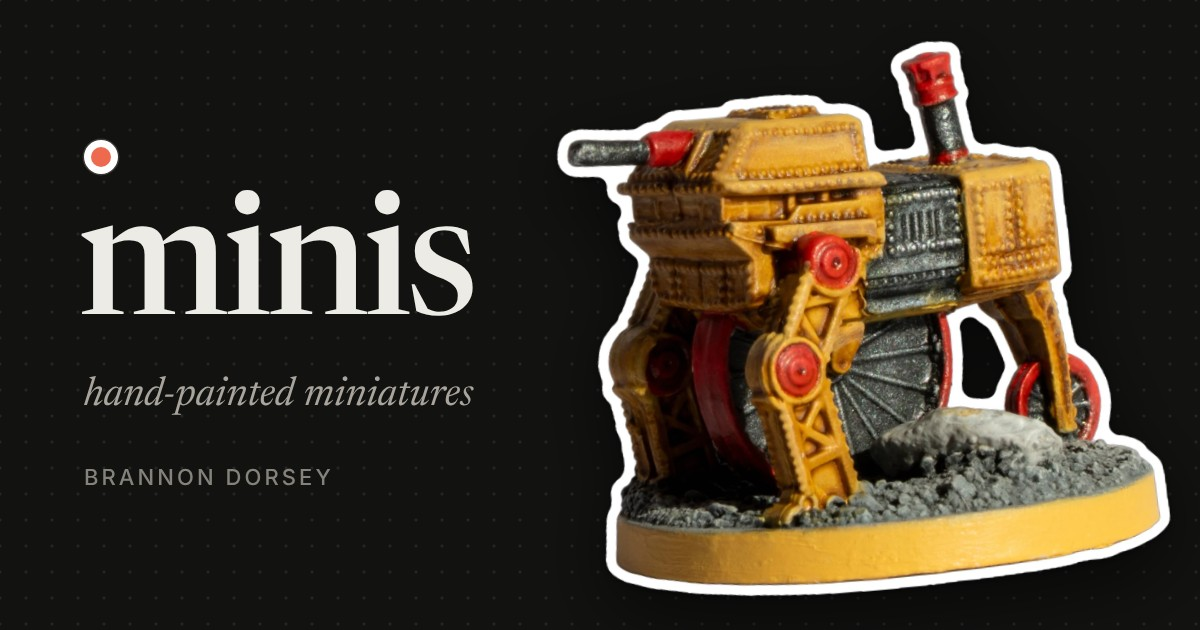
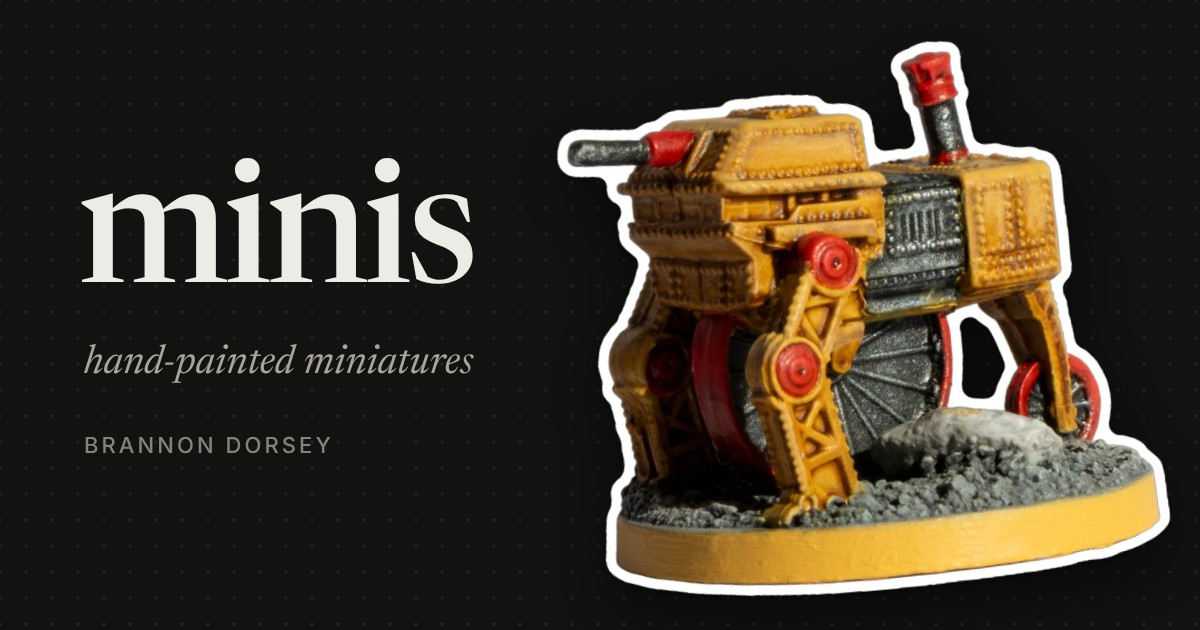
Social card: drop the red dot accent
Claude-Session: https://claude.ai/code/session_01GD7tWYNLozPqViwuVMv8fA

diff --git a/scripts/social/card.html b/scripts/social/card.html
@@ -13,8 +13,6 @@
     font-family: "Newsreader", Georgia, serif; color: #1c1b19;
   }
   .text { position: absolute; left: 84px; top: 0; bottom: 0; display: flex; flex-direction: column; justify-content: center; }
-  .dot { width: 34px; height: 34px; border-radius: 50%; background: #fff; box-shadow: 0 0 0 1.5px #d9d6cf; display: grid; place-items: center; margin-bottom: 30px; }
-  .dot::after { content: ""; width: 20px; height: 20px; border-radius: 50%; background: #c8371f; }
   h1 { font-size: 168px; font-weight: 500; line-height: .85; letter-spacing: -0.035em; margin: 0 0 26px -6px; }
   p { font-size: 40px; font-style: italic; font-weight: 400; color: #5b5850; margin: 0; line-height: 1.2; }
   .by { margin-top: 44px; font: 500 22px ui-sans-serif, system-ui, "Helvetica Neue", sans-serif; letter-spacing: .14em; text-transform: uppercase; color: #8f8b83; }
@@ -23,8 +21,6 @@
   .dark .card { background-color: #121211; background-image: radial-gradient(rgba(236,235,230,0.09) 1.3px, transparent 1.8px); color: #ecebe6; }
   .dark p { color: #a9a59c; }
   .dark .by { color: #85827b; }
-  .dark .dot { box-shadow: 0 0 0 1.5px #3a3833; }
-  .dark .dot::after { background: #ee6a4f; }
   .dark .mech { filter: drop-shadow(0 2px 3px rgba(0,0,0,.5)) drop-shadow(0 24px 36px rgba(0,0,0,.55)); }
 </style>
 <script>if (location.hash === '#dark') document.documentElement.className = 'dark';</script>
@@ -32,7 +28,6 @@
 <body>
   <div class="card">
     <div class="text">
-      <div class="dot"></div>
       <h1>minis</h1>
       <p>hand-painted miniatures</p>
       <div class="by">Brannon Dorsey</div>
